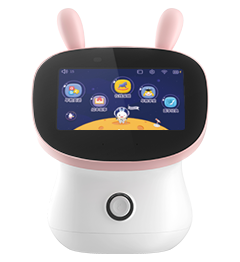
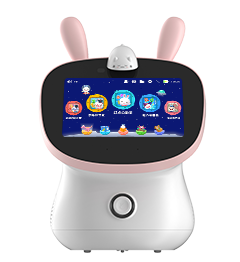
I9S G9_PRO上新

Changed region(s): [[0.1167, 0.0305, 0.875, 0.9771], [0.2333, 0.0305, 0.35, 0.1221], [0.2625, 0.916, 0.2917, 0.9466]]

diff --git a/src/components/home/index.vue b/src/components/home/index.vue
@@ -66,7 +66,7 @@
     </div>
 
     <div class="bg-white">
-      <img v-lazy="bannerList[2]" class="banner" alt="">
+      <img :src="bannerList[2]" class="banner" alt="">
     </div>
 
     <div class="bg-white" style="padding-bottom:78px;">
@@ -102,7 +102,7 @@
 
     <div class="bg-white">
       <div class="gallery">
-        <img v-lazy="bannerList[3]" class="banner" alt="">
+        <img :src="bannerList[3]" class="banner" alt="">
         <div class="gallery-info">
           <img v-lazy="bannerList[4]" class="banner" alt="">
           <div class="overlay" @click="onJump('brand')">
@@ -237,7 +237,7 @@ export default {
           uri: require('../../assets/img/home/new-product-7.png')
         },
         {
-          name: 'G9',
+          name: 'G9_Pro',
           id: 1,
           title: 'AI早教智能机器人G9系列',
           detail1: '快乐早教，从唤醒小兔开始',
@@ -245,11 +245,11 @@ export default {
           uri: require('../../assets/img/home/new-product-6.png')
         },
         {
-          name: 'I9',
+          name: 'I9S',
           id: 2,
-          title: '火火兔英语早教机器人I9',
-          detail1: '培养孩子的英语学习兴趣',
-          detail2: '寓教于乐、孩子的学习利器',
+          title: '火火兔AR教育机器人I9S',
+          detail1: '开启孩子的认知之旅',
+          detail2: '全新AR互动教学，让学习更简单',
           uri: require('../../assets/img/home/new-product-5.png')
         }
       ],

diff --git a/src/components/products/index.vue b/src/components/products/index.vue
@@ -3,7 +3,7 @@
   <div class="content" ref="content">
 
     <router-link :to="{name: 'productDetail', query: { name: 'J7' }}">
-      <img v-lazy="bannerList[0]" class="banner" alt="">
+      <img :src="bannerList[0]" class="banner" alt="">
     </router-link>
 
     <div class="container">

diff --git a/src/components/content/index.vue b/src/components/content/index.vue
@@ -2,7 +2,7 @@
   <!-- 内容管理 -->
   <div class="bg-white">
 
-    <img v-lazy="bannerList[0]" class="banner" alt="">
+    <img :src="bannerList[0]" class="banner" alt="">
 
     <div class="container">
       <div class="row title-pos">

diff --git a/src/components/service/index.vue b/src/components/service/index.vue
@@ -1,7 +1,7 @@
 <template>
   <!-- 售后管理 -->
   <div class="main">
-    <img v-lazy="bannerList[0]" class="banner" alt="">
+    <img :src="bannerList[0]" class="banner" alt="">
 
     <div class="container">
       <div class="title">
